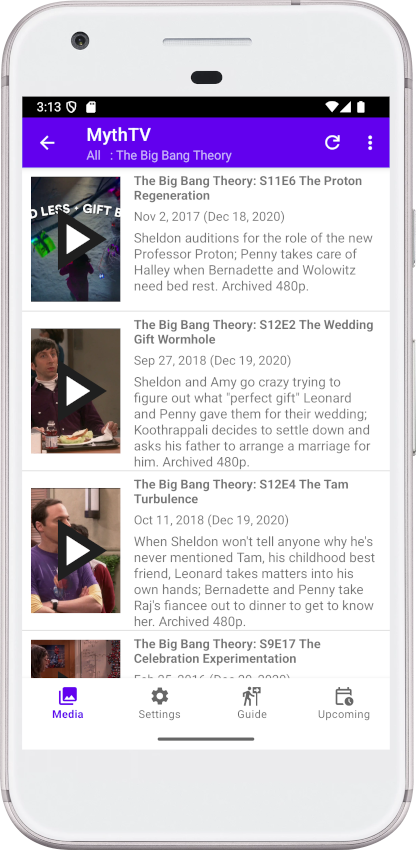
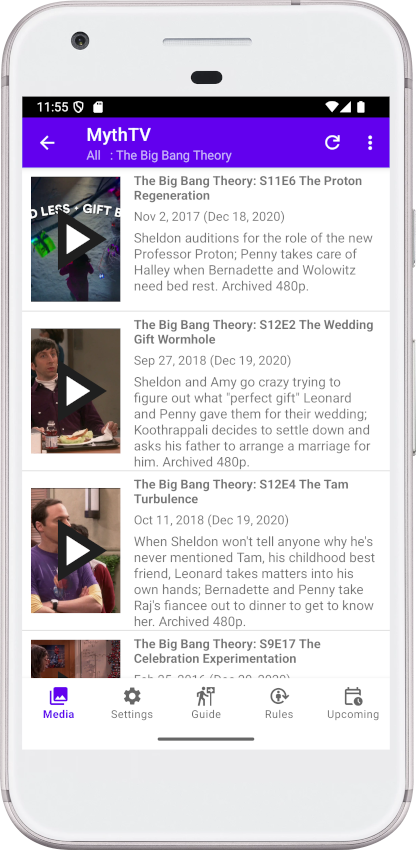
Update documentation

diff --git a/README.md b/README.md
@@ -17,7 +17,8 @@ Leanfront can be installed from the [Google play store](https://play.google.com/
 - [Guide Screen](#guide-screen)
 - [Guide Search Screen](#guide-search-screen)
 - [Schedule Screen](#schedule-screen)
-- [Override Recordiung](#override-recording)
+- [Override Recording](#override-recording)
+- [Rules Screen](#rules-screen)
 - [Upcoming Screen](#upcoming-screen)
 - [Installing leanfront](#installing-leanfront)
 - [Leanfront Features](#leanfront-features)
@@ -144,6 +145,11 @@ The schedule screen includes all of the normal options for scheduling a recordin
 
 From the paperclip icon you can get to this screen where you can select override options for an individual episode.
 
+## Rules Screen
+![](ScreenShots/Rules.png)
+
+This lists all the recording rules. From here you can update or delete any rule. You can also create a new search or manual recording rule from the menu accessed by tapping the three dots at the top right hand side of the screen.
+
 ## Upcoming Screen
 ![](ScreenShots/upcoming.png)
 
@@ -189,7 +195,7 @@ The first time you run the app it will prompt you for the MythTV Backend setting
 - The *Master Backend Override* MythTV setting is supported. Playback will be from the master backend even for recordings made on a slave. However the Preview image still uses the slave backend, so it will not show if the slave is down.
 - Note that some phones do not support MPEG-2 playback. In this case MPEG-2 recordings are decoded via software.
 - Supports MythTV commercial breaks and cut list.
-- Shows the program guide with searcjhj capabilities and supports scheduling recordings and changing schedules 
+- Shows the program guide with search capabilities and supports scheduling recordings and changing schedules 
 
 ## Release Notes
 
